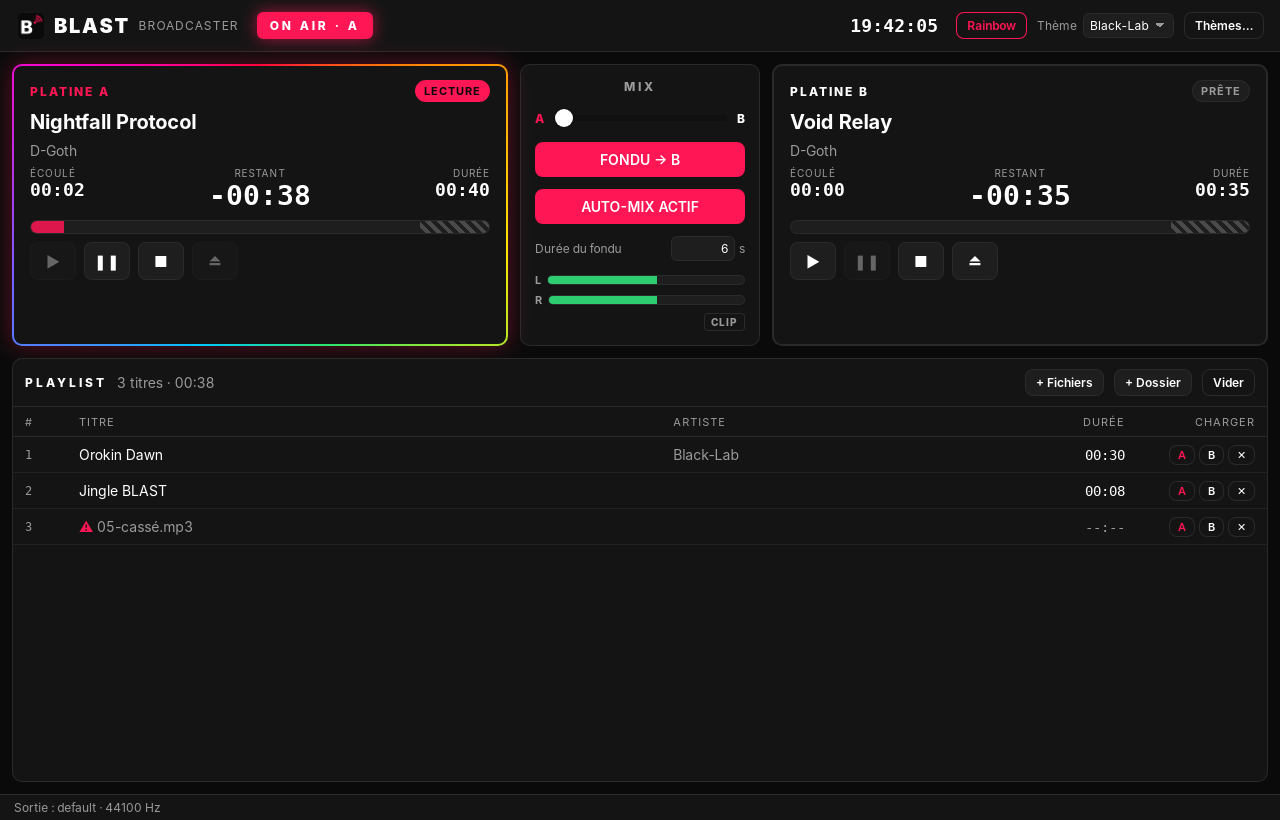
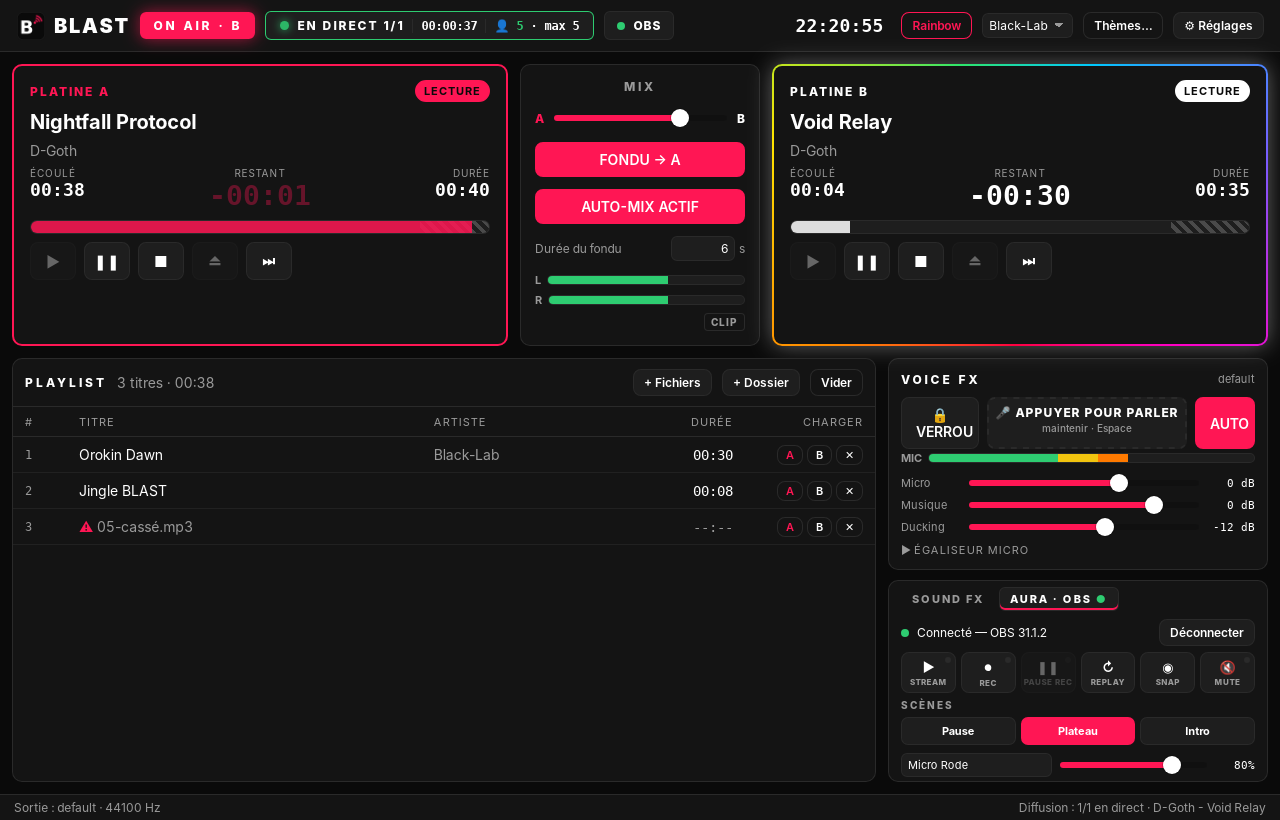
README : capture thème Black-Lab avec Rainbow, installation Windows
- nouvelle capture : thème Black-Lab, Rainbow actif, fondu en cours,
  diffusion en direct avec auditeurs, OBS connecté
- installation Windows 10/11 depuis l'invite de commandes (sans PowerShell) :
  outils via winget, script install-windows.bat (menu Démarrer, icône,
  désinstallation)
- icône .ico déclarée pour Windows, fins de ligne CRLF pour les .bat

diff --git a/README.md b/README.md
@@ -1,6 +1,6 @@
 # BLAST Broadcaster
 
-**Black-Lab Audio Streaming Tool** — console de webradio et de live multi-OS (Linux, Windows, macOS).
+**Black-Lab Audio Streaming Tool** — console de webradio et de live multi-OS (Linux et Windows ; macOS prévu).
 
 BLAST Broadcaster réunit dans un seul logiciel ce qu'il fallait jusqu'ici assembler à la main :
 la console d'antenne d'une webradio (à la manière de SAM Broadcaster), la diffusion vers les serveurs
@@ -68,7 +68,41 @@ Le script compile, puis installe pour l'utilisateur courant (sans `sudo`) :
 Pour mettre à jour : `git pull` puis relancer le script. Pour désinstaller : `./scripts/install-linux.sh --uninstall`.
 
 Sous Fedora : `sudo dnf install alsa-lib-devel webkit2gtk4.1-devel gtk3-devel librsvg2-devel libsoup3-devel`.
+Les captures OBS (SNAP) vont dans `~/Images/BLAST`.
 PipeWire et PulseAudio sont pris en charge via leur couche de compatibilité ALSA.
+
+## Installer sous Windows 10 / 11
+
+Tout se fait dans l'**Invite de commandes** (`cmd`), pas besoin de PowerShell.
+
+**1. Les outils (une seule fois)**
+
+```bat
+winget install --id Git.Git -e
+winget install --id Rustlang.Rustup -e
+winget install --id Microsoft.VisualStudio.2022.BuildTools -e --override "--wait --passive --add Microsoft.VisualStudio.Workload.VCTools --includeRecommended"
+```
+
+Sans winget : [Git pour Windows](https://git-scm.com/download/win), [rustup](https://rustup.rs) (il propose d'installer
+les outils C++ de Visual Studio : accepte). WebView2, utilisé pour l'interface, est déjà présent sur Windows 10 et 11.
+**Ferme puis rouvre l'invite de commandes** après ces installations.
+
+**2. Récupérer et installer BLAST**
+
+```bat
+git clone https://github.com/D-Goth/BLAST-Broadcaster.git
+cd BLAST-Broadcaster
+scripts\install-windows.bat
+```
+
+Le script compile, copie BLAST dans `%LOCALAPPDATA%\Programs\BLAST Broadcaster` et crée l'entrée
+**BLAST Broadcaster** dans le menu Démarrer (clic droit → Épingler à la barre des tâches).
+
+- Mettre à jour : `git pull` puis `scripts\install-windows.bat`
+- Désinstaller : `scripts\install-windows.bat /uninstall` (les réglages restent dans `%APPDATA%\fr.black-lab.blast`)
+
+Sous Windows, les mots de passe sont rangés dans le Gestionnaire d'identifiants, et le son passe par WASAPI.
+Les captures OBS (SNAP) vont dans `Images\BLAST`.
 
 ## Utiliser l'interface
 
